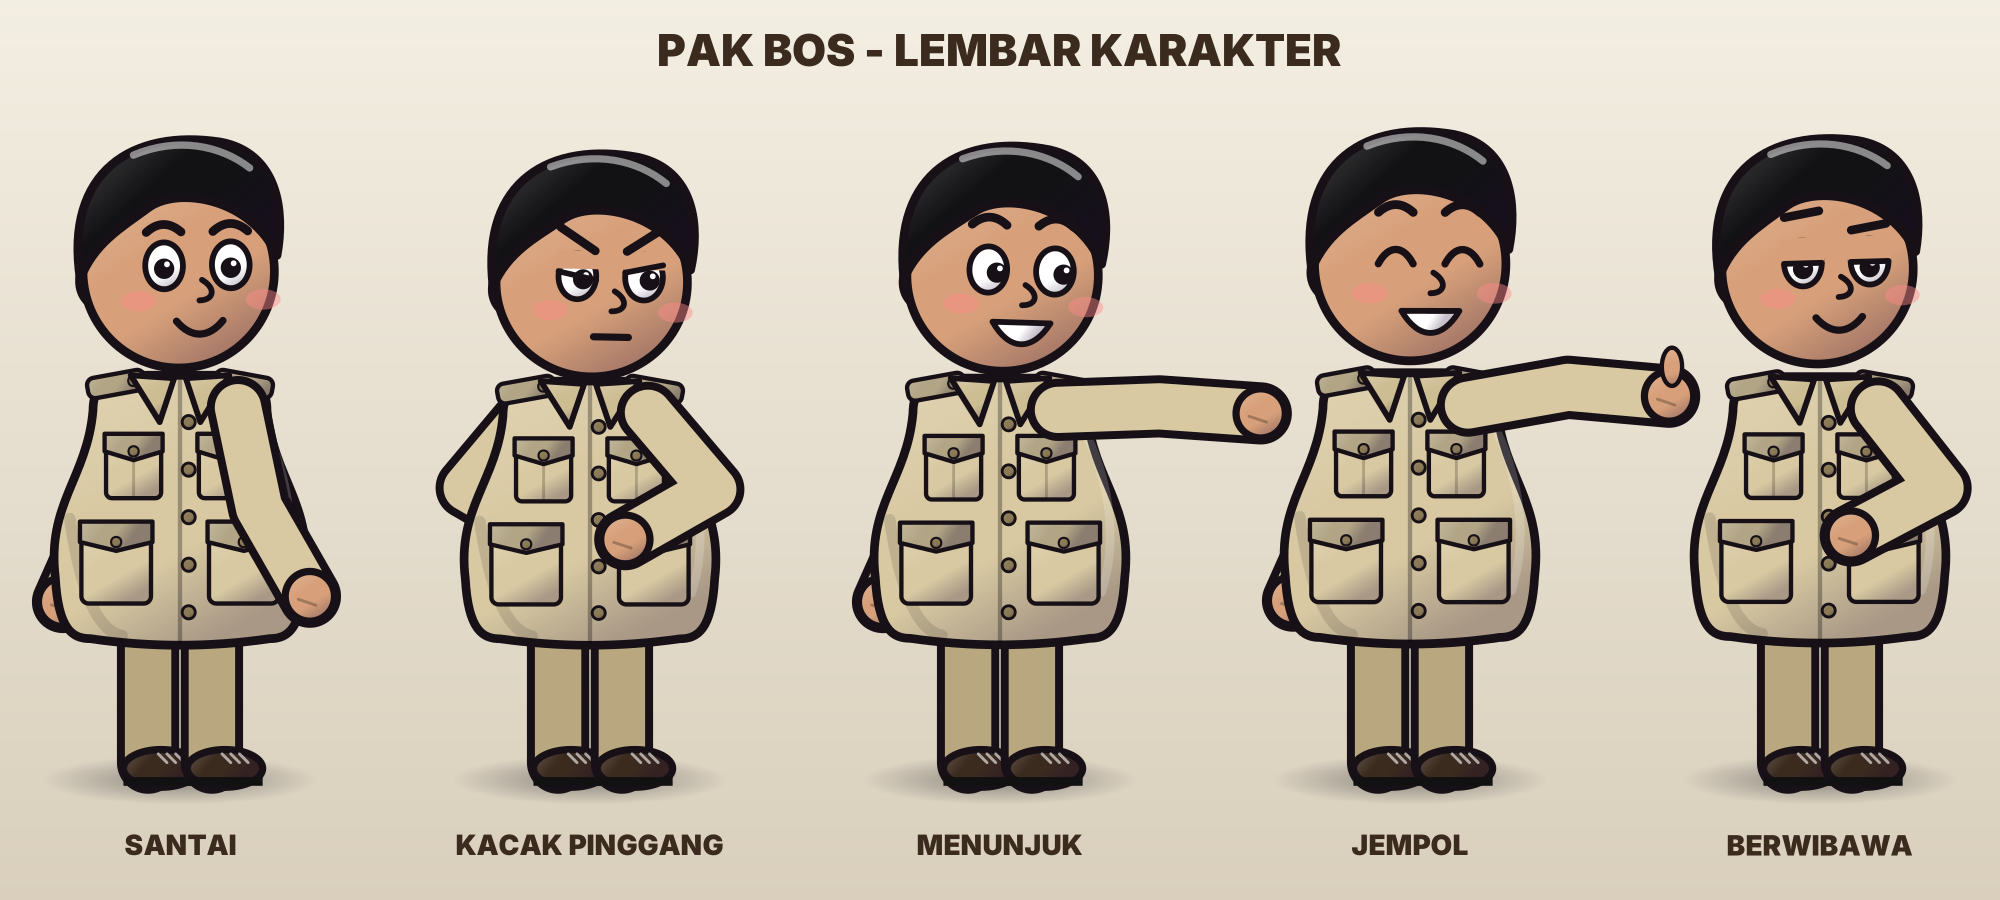
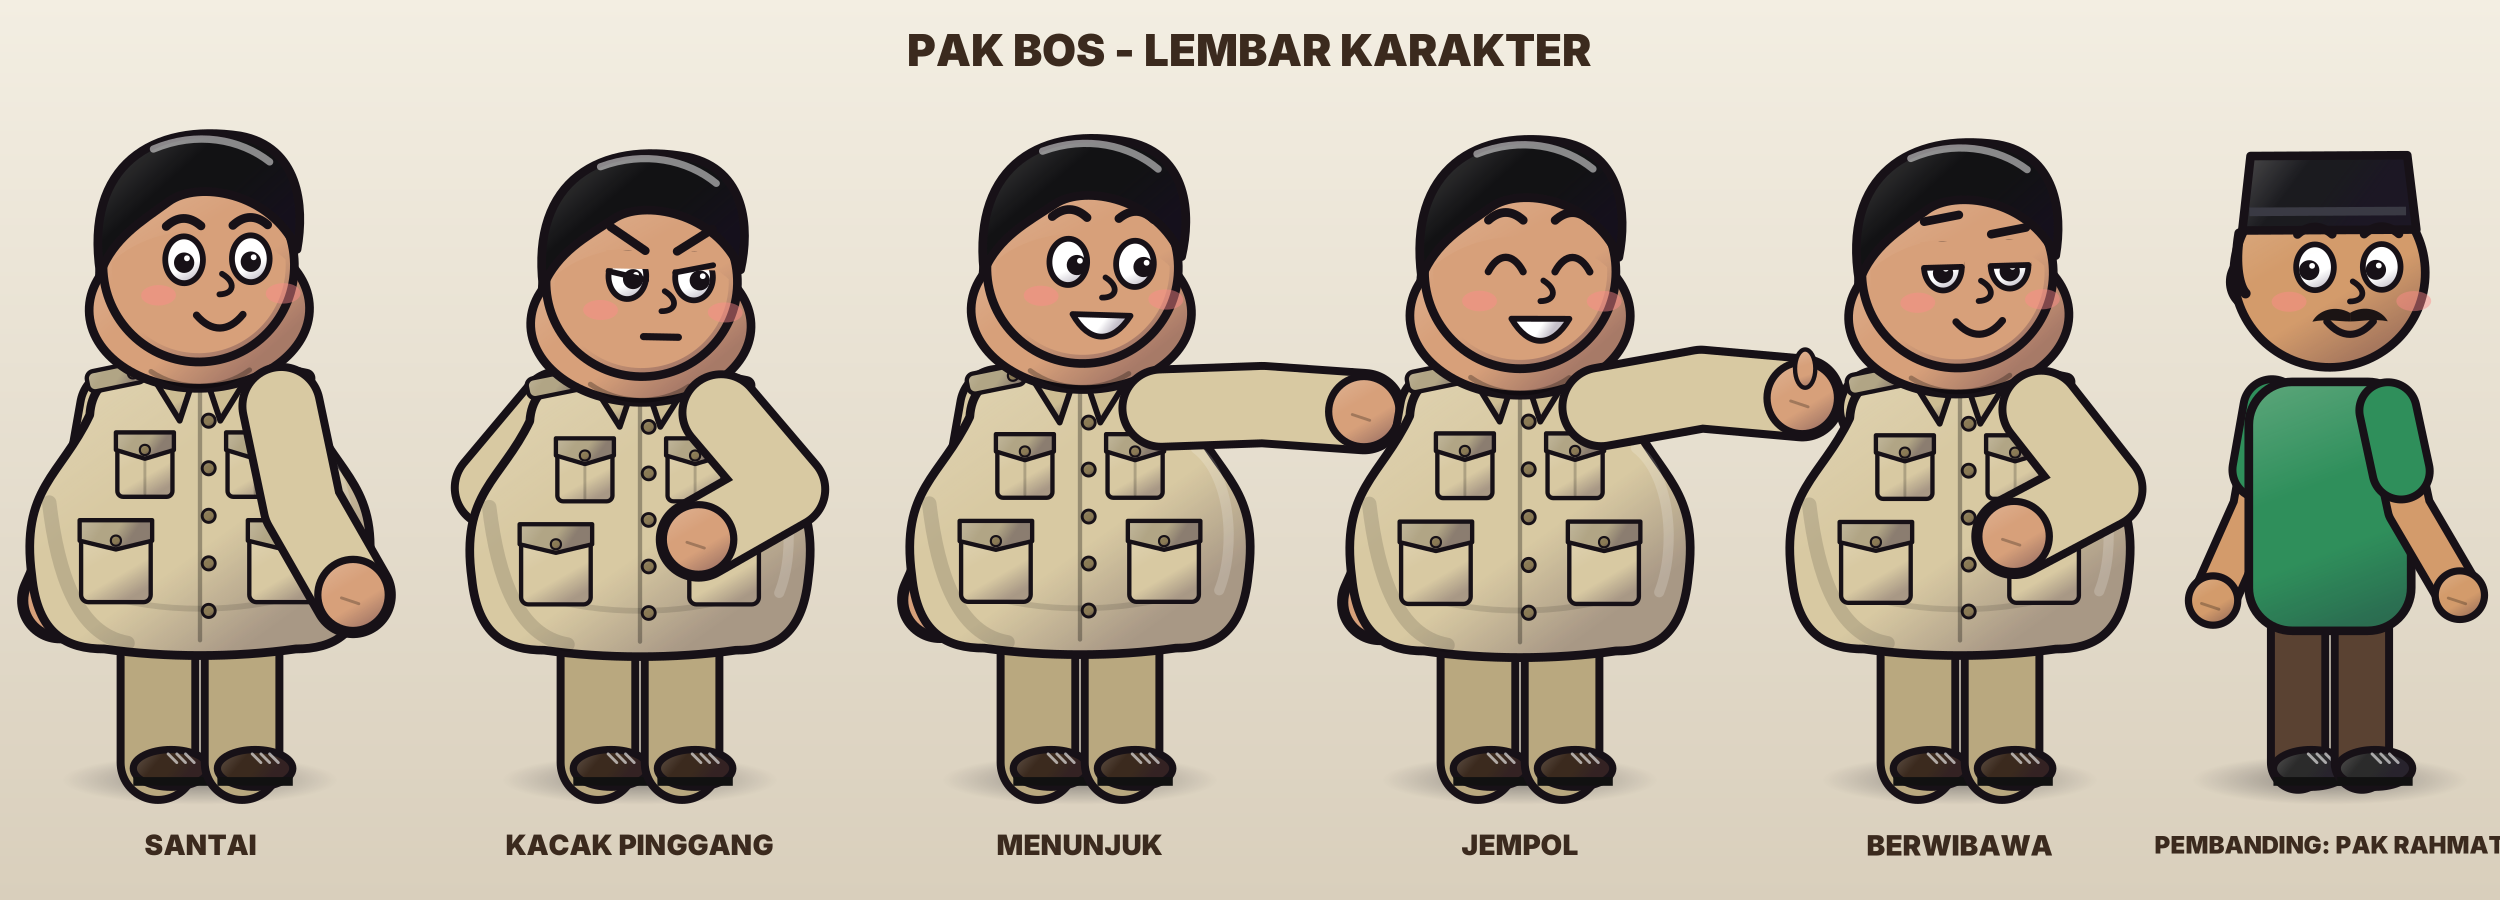
Pak Bos lebih gendut: badan bulat, lengan & kaki tebal, pipi tembam, dagu berlipat
Claude-Session: https://claude.ai/code/session_01Tp6ASkTkqbc1ZH6wiRmhct

diff --git a/pak-rahmat-master/aset_dasar.py b/pak-rahmat-master/aset_dasar.py
@@ -116,7 +116,7 @@ CH = {
  'b4': dict(skin=SKIN_B, dress=hx('#E5473B'), dots=hx('#FFD1C8'), hair='hijab', hij=hx('#7A4FD1'), kind='daster'),
 }
 # Pak Bos (ep 7+): tokoh orisinal, baju safari krem, badan agak gendut, rambut hitam disisir rapi
-CH['pakbos'] = dict(skin=hx('#D7A07A'), shirt=hx('#D8C9A2'), pants=hx('#B9A87F'), hair='slick', kind='man', safari=True,
+CH['pakbos'] = dict(skin=hx('#D7A07A'), shirt=hx('#D8C9A2'), pants=hx('#B9A87F'), hair='slick', kind='man', safari=True, gendut=True, bahu=56, arm_w=40, leg_w=46,
                     collar=True, collar_col=hx('#CDBD93'), long=True, foot='shoe', shoe_col=hx('#3B2A1E'), cuff=hx('#CDBD93'))
 
 def arm(c, sx, sy, a1, a2, sleeve, skin, L=70, w=24, long=False, watch=None, gelang=False, cuff=None, hd=False):
@@ -143,7 +143,7 @@ def arm(c, sx, sy, a1, a2, sleeve, skin, L=70, w=24, long=False, watch=None, gel
         for k in (-4, 4):
             rrect(c, k - 2.5, -15, 5, 30, 2.5); fs(c, hx('#F2C230'), 2)
         c.restore()
-    ell(c, hx_, hy_, 17, 17); fs(c, skin, 5)
+    ell(c, hx_, hy_, 17 * max(1, w / 24) ** .7, 17 * max(1, w / 24) ** .7); fs(c, skin, 5)
     if hd:
         ang2 = math.atan2(hy_ - ey, hx_ - ex)
         c.save(); c.translate(hx_, hy_); c.rotate(ang2 - math.pi / 2)
@@ -222,7 +222,13 @@ def face(c, P, hy, po, t):
         ell(c, -54, hy + 6, 15, 18); fs(c, skin, 5)
         if hair == 'rollers':
             ell(c, -62, hy - 28, 30, 30); fs(c, hx('#3A2418'), 6)
+        if P.get('gendut'):                                  # pipi tembam + dagu berlipat
+            ell(c, 0, hy + 30, 76, 54); fs(c, skin, 6)
         ell(c, 0, hy, 66, 66); fs(c, skin, 6)
+        if P.get('gendut'):
+            c.save(); ell(c, 0, hy + 30, 76, 54); c.clip(); ell(c, 0, hy, 60, 60); fill(c, skin); c.restore()
+            c.move_to(-34, hy + 72); c.curve_to(-14, hy + 86, 14, hy + 86, 34, hy + 72)
+            c.set_source_rgba(0, 0, 0, .28); c.set_line_width(3.5); c.stroke()
     # hair on top
     if hair == 'peci':
         pl = po.get('peci_lift', 0) * (18 + 4 * math.sin(t * 30))
@@ -459,31 +465,32 @@ def safari_badan(c, P, sh, hip, sit):
     """baju safari badan gendut (Pak Bos): perut membulat, 4 saku bertutup, epolet, kancing, pin emas."""
     col = P['shirt']; dk = tuple(v * .82 for v in col)
     bot = hip + (4 if sit else 22)
-    c.new_path(); c.move_to(-60, sh + 14); c.curve_to(-60, sh - 10, -40, sh - 10, -24, sh - 10); c.line_to(24, sh - 10)
-    c.curve_to(40, sh - 10, 60, sh - 10, 60, sh + 14)
-    c.curve_to(64, sh + 60, 92, hip - 70, 86, hip - 20); c.curve_to(84, bot - 6, 74, bot, 62, bot)
-    c.curve_to(20, bot + 6, -20, bot + 6, -62, bot); c.curve_to(-74, bot, -84, bot - 6, -86, hip - 20)
-    c.curve_to(-92, hip - 70, -64, sh + 60, -60, sh + 14); c.close_path(); fs(c, col, 6)
-    c.move_to(-76, hip - 60); c.curve_to(-70, hip - 20, -60, bot - 6, -40, bot - 2); c.set_source_rgba(0, 0, 0, .12); c.set_line_width(8); c.stroke()
-    c.move_to(60, sh + 30); c.curve_to(78, hip - 80, 80, hip - 40, 70, hip - 10); c.set_source_rgba(1, 1, 1, .18); c.set_line_width(6); c.stroke()
+    c.new_path(); c.move_to(-76, sh + 18); c.curve_to(-74, sh - 12, -46, sh - 14, -24, sh - 14); c.line_to(24, sh - 14)
+    c.curve_to(46, sh - 14, 74, sh - 12, 76, sh + 18)
+    c.curve_to(96, sh + 60, 124, hip - 80, 116, hip - 20); c.curve_to(112, bot - 2, 92, bot + 8, 66, bot + 8)
+    c.curve_to(24, bot + 14, -24, bot + 14, -66, bot + 8); c.curve_to(-92, bot + 8, -112, bot - 2, -116, hip - 20)
+    c.curve_to(-124, hip - 80, -96, sh + 60, -76, sh + 18); c.close_path(); fs(c, col, 6)
+    c.move_to(-104, hip - 70); c.curve_to(-98, hip - 20, -84, bot - 2, -50, bot + 4); c.set_source_rgba(0, 0, 0, .13); c.set_line_width(10); c.stroke()
+    c.move_to(80, sh + 40); c.curve_to(104, hip - 90, 108, hip - 40, 96, hip - 10); c.set_source_rgba(1, 1, 1, .18); c.set_line_width(7); c.stroke()
+    c.move_to(-70, hip - 8); c.curve_to(-30, hip + 6, 30, hip + 6, 70, hip - 8); c.set_source_rgba(0, 0, 0, .12); c.set_line_width(4); c.stroke()   # lipatan perut
     c.move_to(0, sh - 6); c.line_to(0, bot + 2); c.set_source_rgba(0, 0, 0, .3); c.set_line_width(3); c.stroke()      # belahan kancing
     for k in range(5):
         yy = sh + 22 + k * ((bot - sh - 40) / 4)
         ell(c, 6, yy, 4.5, 4.5); fs(c, hx('#8A7A55'), 2)
     for sgn in (-1, 1):                                                         # saku dada bertutup
-        x0 = sgn * 32 - 19
+        x0 = sgn * 38 - 19
         rrect(c, x0, sh + 34, 38, 40, 4); fs(c, col, 3)
-        c.move_to(sgn * 32, sh + 38); c.line_to(sgn * 32, sh + 72); c.set_source_rgba(0, 0, 0, .2); c.set_line_width(2); c.stroke()
-        poly(c, [(x0 - 1, sh + 30), (x0 + 39, sh + 30), (x0 + 39, sh + 42), (sgn * 32, sh + 48), (x0 - 1, sh + 42)]); fs(c, dk, 3)
-        ell(c, sgn * 32, sh + 42, 3.5, 3.5); fs(c, hx('#8A7A55'), 1.5)
-        x1 = sgn * 44 - 24                                                       # saku bawah besar
+        c.move_to(sgn * 38, sh + 38); c.line_to(sgn * 38, sh + 72); c.set_source_rgba(0, 0, 0, .2); c.set_line_width(2); c.stroke()
+        poly(c, [(x0 - 1, sh + 30), (x0 + 39, sh + 30), (x0 + 39, sh + 42), (sgn * 38, sh + 48), (x0 - 1, sh + 42)]); fs(c, dk, 3)
+        ell(c, sgn * 38, sh + 42, 3.5, 3.5); fs(c, hx('#8A7A55'), 1.5)
+        x1 = sgn * 58 - 24                                                       # saku bawah besar
         rrect(c, x1, hip - 52, 48, 50, 5); fs(c, col, 3)
-        poly(c, [(x1 - 1, hip - 58), (x1 + 49, hip - 58), (x1 + 49, hip - 44), (sgn * 44, hip - 38), (x1 - 1, hip - 44)]); fs(c, dk, 3)
-        ell(c, sgn * 44, hip - 44, 3.5, 3.5); fs(c, hx('#8A7A55'), 1.5)
-        c.save(); c.translate(sgn * 44, sh - 4); c.rotate(sgn * .18)                # epolet
+        poly(c, [(x1 - 1, hip - 58), (x1 + 49, hip - 58), (x1 + 49, hip - 44), (sgn * 58, hip - 38), (x1 - 1, hip - 44)]); fs(c, dk, 3)
+        ell(c, sgn * 58, hip - 44, 3.5, 3.5); fs(c, hx('#8A7A55'), 1.5)
+        c.save(); c.translate(sgn * 58, sh - 8); c.rotate(sgn * .2)                # epolet
         rrect(c, -20, -7, 40, 14, 5); fs(c, dk, 3); ell(c, -sgn * 12, 0, 3.5, 3.5); fs(c, hx('#8A7A55'), 1.5)
         c.restore()
-    ell(c, 34, sh + 20, 7, 7); fs(c, hx('#E8B53A'), 2.5); ell(c, 34, sh + 20, 3, 3); fill(c, hx('#9C6B12'))   # pin emas
+    ell(c, 40, sh + 20, 7, 7); fs(c, hx('#E8B53A'), 2.5); ell(c, 40, sh + 20, 3, 3); fill(c, hx('#9C6B12'))   # pin emas
 
 def person(c, x, y, who, po=None, s=1.0, t=0.0, flip=False):
     P = CH[who]; po = dict(po or {})
@@ -509,7 +516,7 @@ def person(c, x, y, who, po=None, s=1.0, t=0.0, flip=False):
     sleeve = P.get('shirt', P.get('dress'))
     # back arm
     sleeve = P.get('jacket', sleeve)
-    arm(c, -40, sh + 12, aB[0], aB[1], sleeve, skin, long=P.get('long', False), gelang=P.get('gelang', False), cuff=P.get('cuff'), hd=P.get('hd', False))
+    arm(c, -P.get('bahu', 40), sh + 12, aB[0], aB[1], sleeve, skin, w=P.get('arm_w', 24), long=P.get('long', False), gelang=P.get('gelang', False), cuff=P.get('cuff'), hd=P.get('hd', False))
     # legs
     if sit:
         legc = P.get('pants', skin)
@@ -520,9 +527,10 @@ def person(c, x, y, who, po=None, s=1.0, t=0.0, flip=False):
         legc = skin if ex else P['pants']
         top = -48 if ex else hip
         st = po.get('step', 0)
-        for dx, ph in ((-22, 0), (22, math.pi)):
+        lw_ = P.get('leg_w', 32); lx_ = 22 + (lw_ - 32) * .5
+        for dx, ph in ((-lx_, 0), (lx_, math.pi)):
             fxo = st * 18 * math.sin(t * 9 + ph)
-            line(c, [(dx, top), (dx + fxo, -12)], 26 if ex else 32, legc)
+            line(c, [(dx, top), (dx + fxo, -12)], 26 if ex else lw_, legc)
             if P.get('chino') and not ex:
                 c.move_to(dx + 4, top + 8); c.line_to(dx + fxo + 4, -26); c.set_source_rgba(1, 1, 1, .35); c.set_line_width(2); c.stroke()
                 if P.get('hd'):
@@ -691,7 +699,7 @@ def person(c, x, y, who, po=None, s=1.0, t=0.0, flip=False):
     c.save(); c.translate(0, hy + 60); c.rotate(math.radians(po.get('tilt', 0))); c.translate(0, -(hy + 60))
     face(c, P, hy, po, t)
     c.restore()
-    hand = arm(c, 40, sh + 12, aF[0], aF[1], sleeve, skin, long=P.get('long', False), watch=P.get('watch'), cuff=P.get('cuff'), hd=P.get('hd', False))
+    hand = arm(c, P.get('bahu', 40), sh + 12, aF[0], aF[1], sleeve, skin, w=P.get('arm_w', 24), long=P.get('long', False), watch=P.get('watch'), cuff=P.get('cuff'), hd=P.get('hd', False))
     if po.get('thumb'):
         ell(c, hand[0] + 2, hand[1] - 20, 7, 13); fs(c, skin, 3)
     if po.get('hold'):
